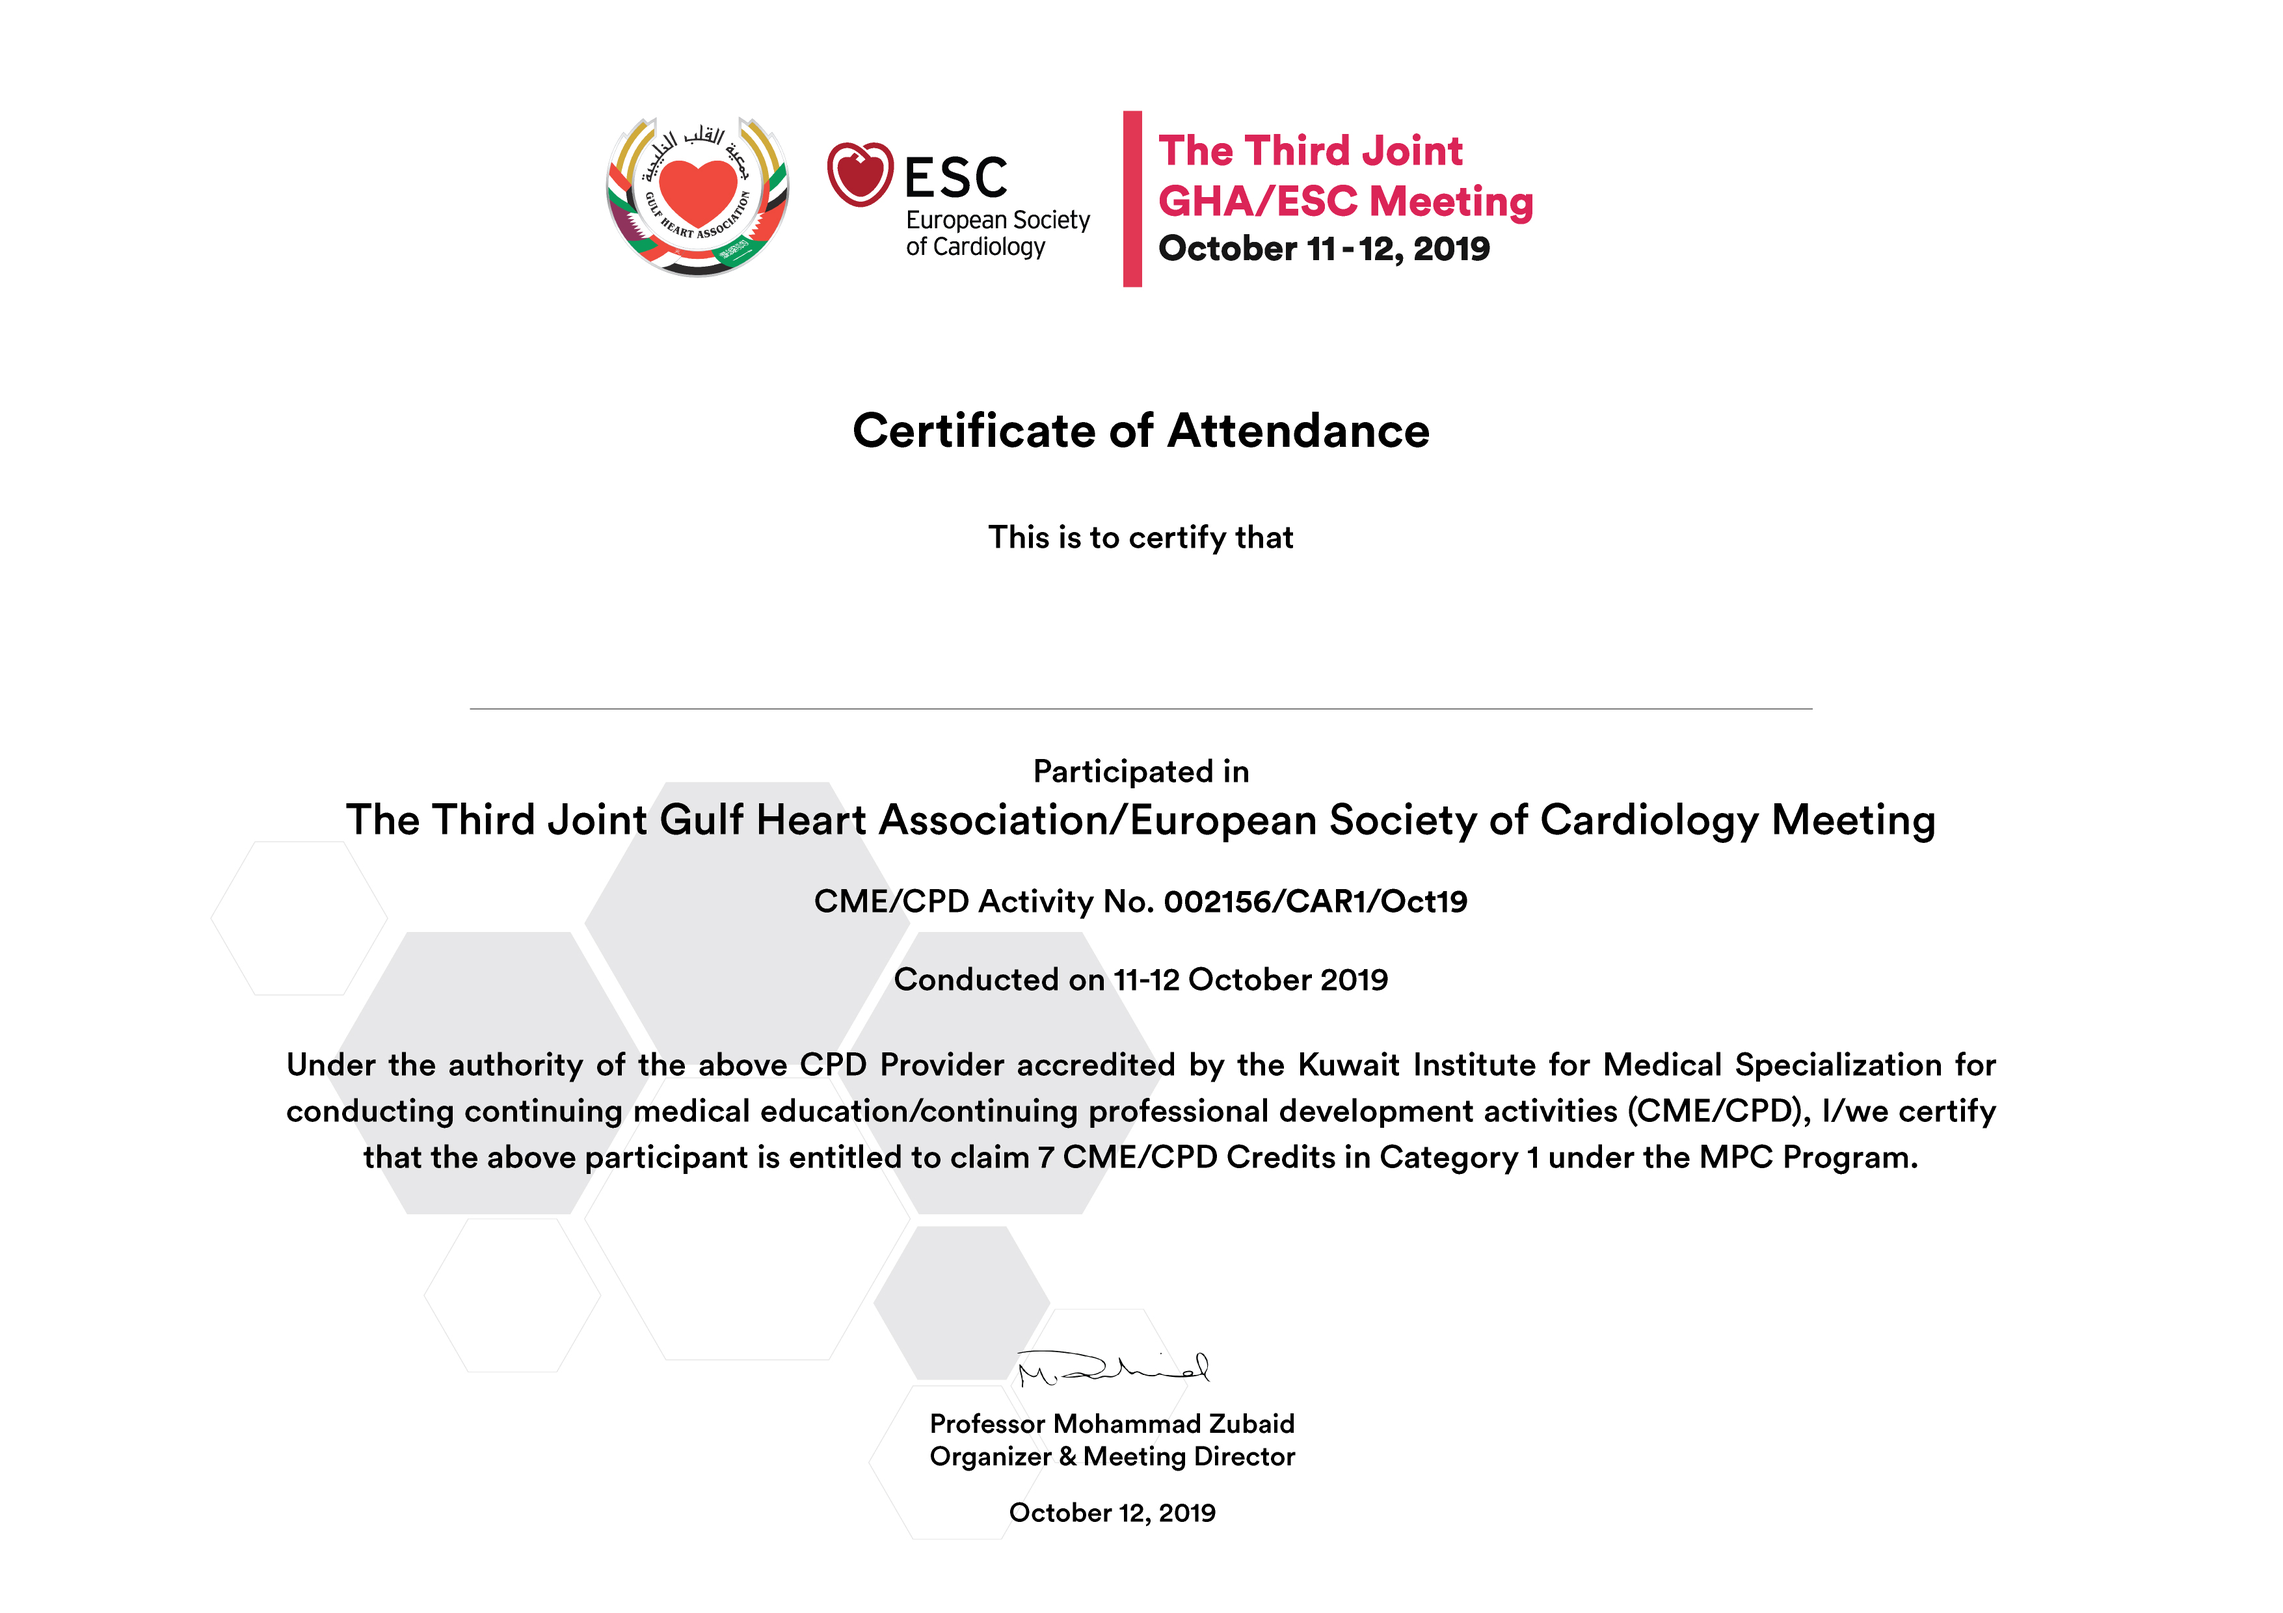
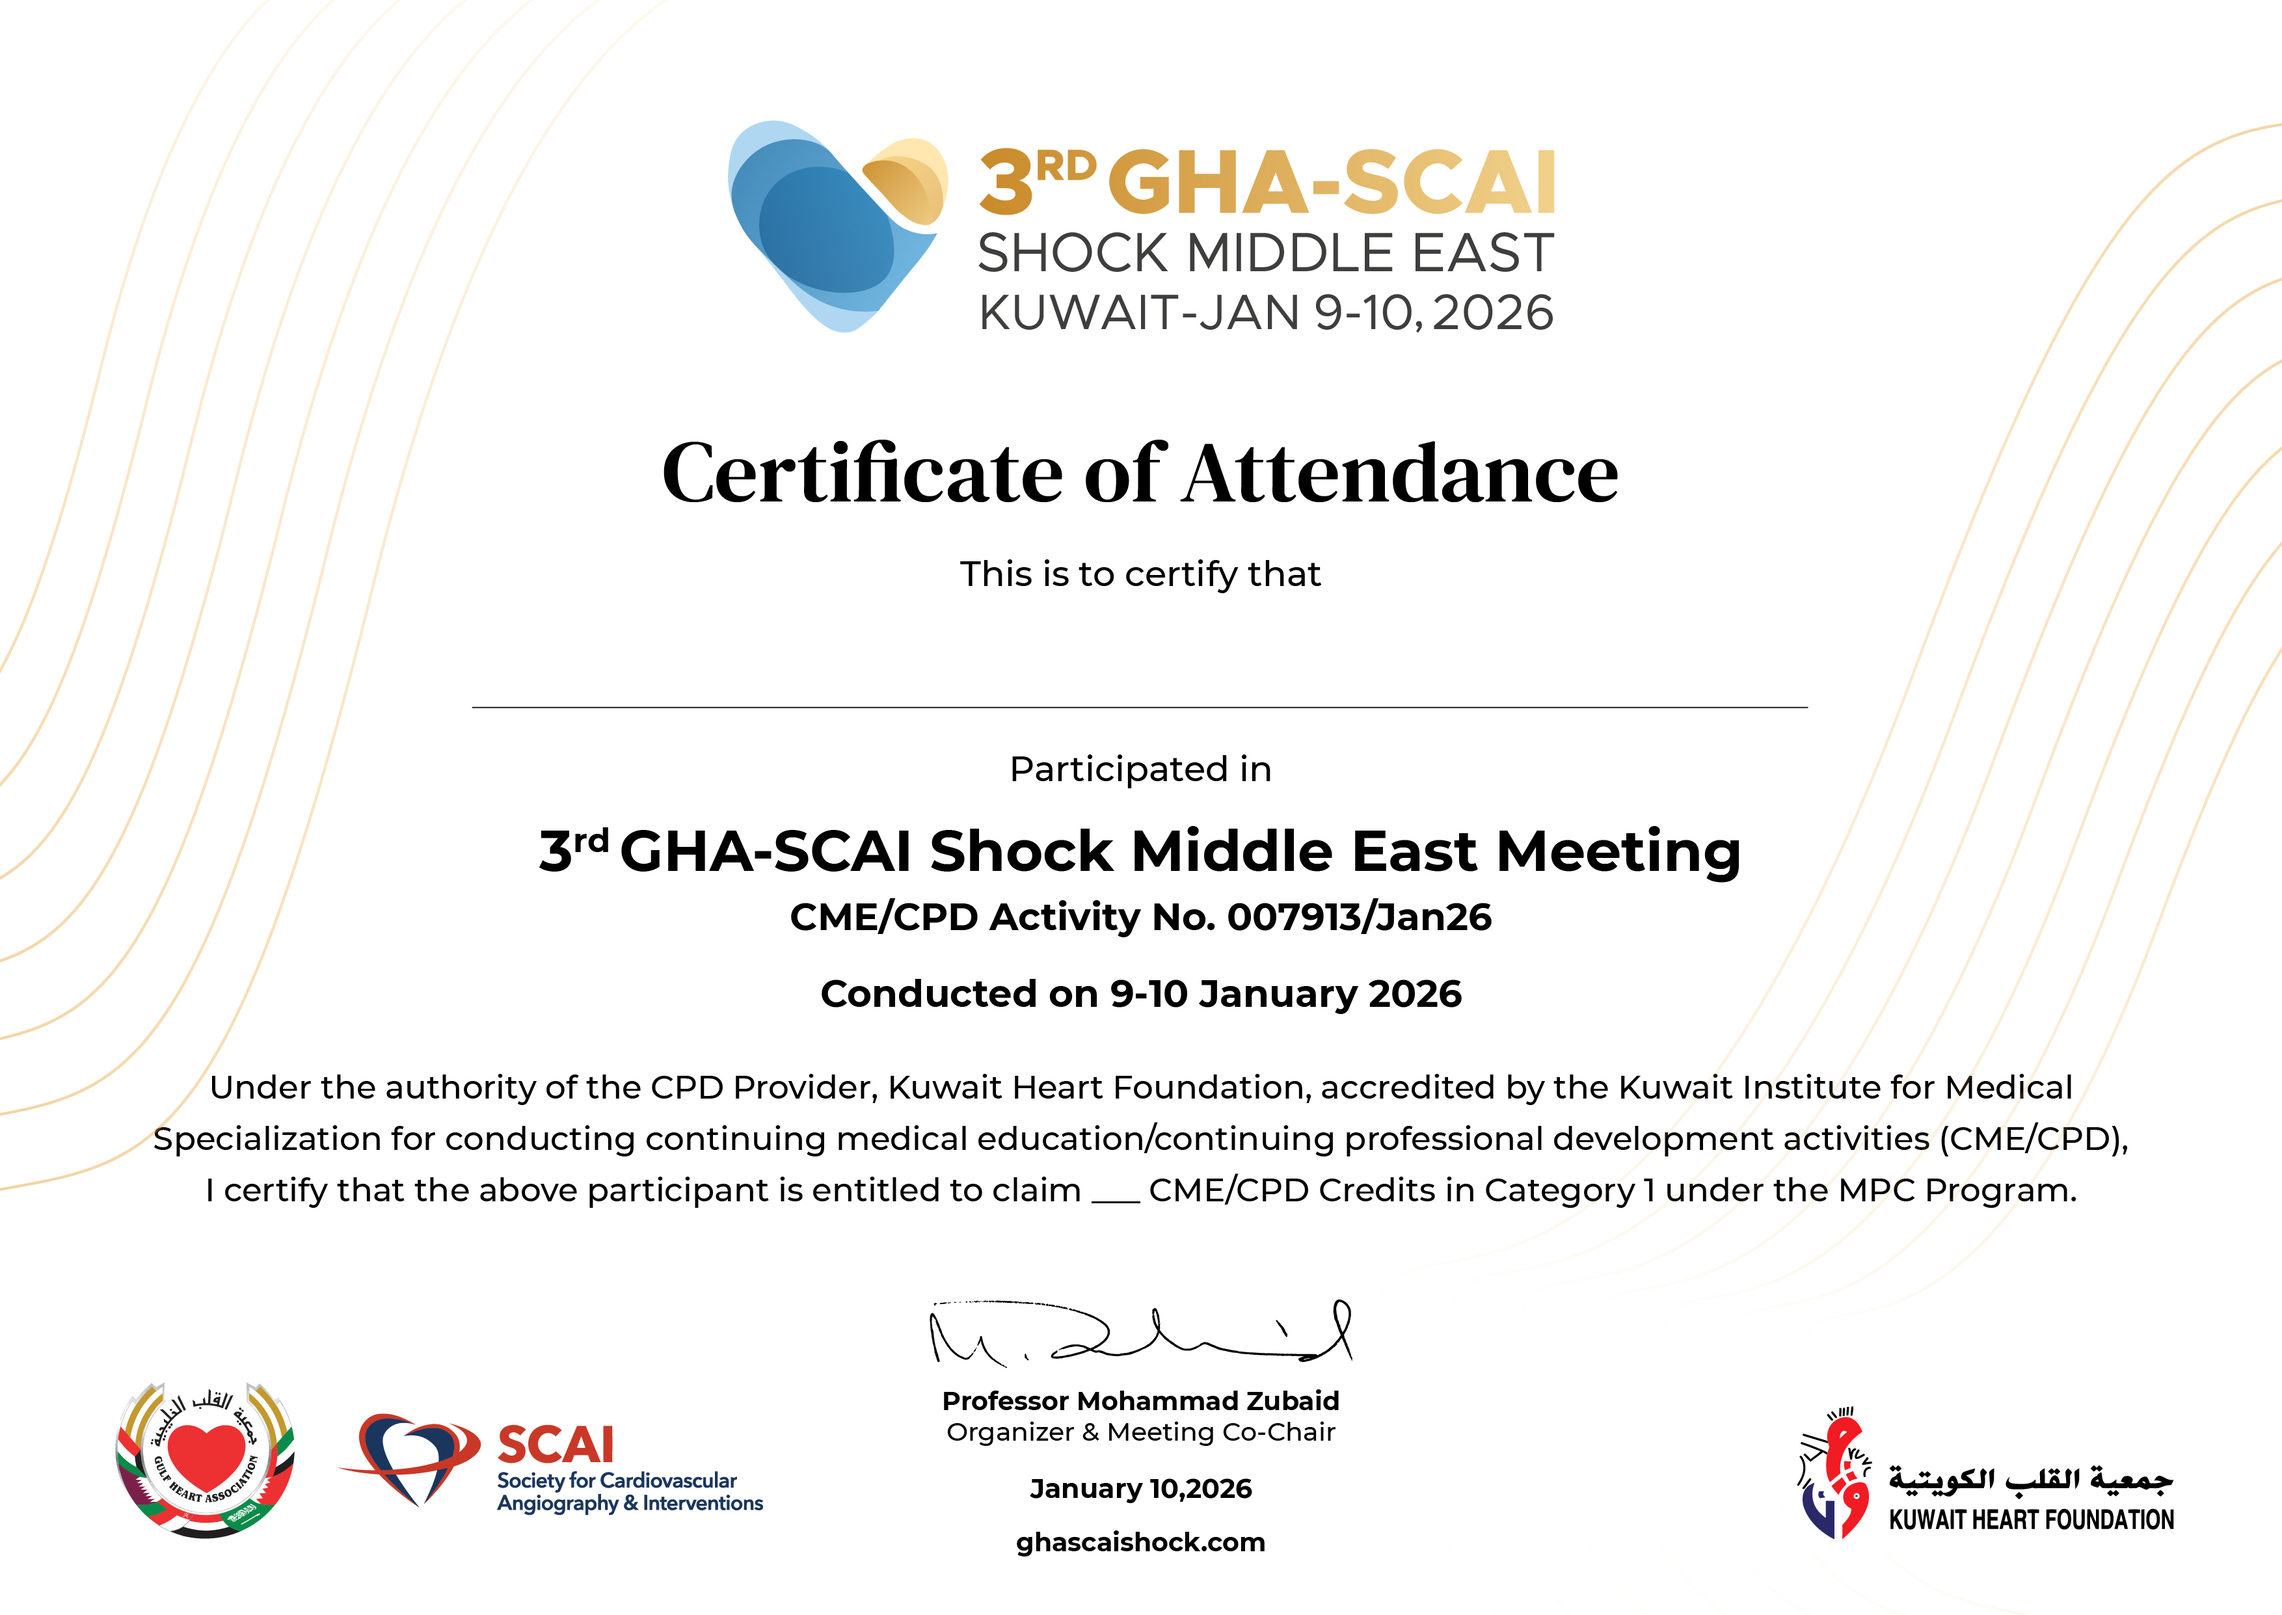
`Updated RegistrationController, register.blade.php, and routes/web.php to remove unused code and update certificate image path.`

diff --git a/app/Http/Controllers/RegistrationController.php b/app/Http/Controllers/RegistrationController.php
@@ -983,19 +983,20 @@ class RegistrationController extends Controller
 
 
         ///////////// check if user paid /////////////
-        $paid_status = $registration->Payment->paid_status;
-        if ($paid_status != 1) {
-            return redirect()->back()->withErrors(['message' => 'Your account is not active']);
-        }
+        // $paid_status = $registration->Payment->paid_status;
+        // if ($paid_status != 1) {
+        //     return redirect()->back()->withErrors(['message' => 'Your account is not active']);
+        // }
         ///////////// check if user paid /////////////
 
 
         if (!$registration->attended) {
             return redirect()->back()->withErrors(['message' => 'You have not attended the event.']);
         }
-        if (!$registration->answered) {
-            return redirect()->route('evaluation.form')->with(['registration' => $registration]);
-        }
+        // return $id;
+        // if (!$registration->answered) {
+        //     return redirect()->route('evaluation.form')->with(['registration' => $registration]);
+        // }
         return $this->downloadCertificate($registration);
     }
 
@@ -1085,7 +1086,8 @@ class RegistrationController extends Controller
         // $pdf->loadHtml("<style>html{margin:0;}</style><div style='text-align: center; margin-top: 0; position: relative;'><h3 style='position: absolute; top: 300px; left: 220px; font-weight: normal; font-size: 26px; width: 60%; font-family: Arial, sans-serif; color: #000000;'>" . ucwords($registration->title . ". " . $registration->first_name . " " . $registration->last_name) . "</h3><img src='".asset('images/certificate.jpg')."' style='width: 93%;'></div>");
         // return $pdf->download('GHAESC2019_cert_'.$registration->id.'.pdf');
 
-        $imagePath = public_path('images/GHA23Certificate_old.png');
+        $imagePath = public_path('images/certificate.jpg');
+        // $imagePath = public_path('images/GHA23Certificate_old.png');
         $imageData = file_get_contents($imagePath);
         $imageDataUri = base64_encode($imageData);
 

diff --git a/routes/web.php b/routes/web.php
@@ -276,7 +276,7 @@ Route::get('/program', ['uses' => 'GenericPageController@program', 'as' => 'page
 Route::get('/program/download/pdf', ['uses' => 'GenericPageController@downloadProgramPDF', 'as' => 'downloadProgramPDF']);
 
 Route::post('emails/create', ['uses' => 'GenericPageController@createEmail', 'as' => 'emails.create']);
-Route::get('/registration', ['uses' => 'GenericPageController@registration', 'as' => 'pages.registration']);
+// Route::get('/registration', ['uses' => 'GenericPageController@registration', 'as' => 'pages.registration']);
 Route::get('/register-now', ['uses' => 'GenericPageController@register', 'as' => 'pages.register']);
 Route::get('/register', ['uses' => 'GenericPageController@register', 'as' => 'pages.register']);
 Route::get('/venue', ['uses' => 'GenericPageController@venue', 'as' => 'pages.venue']);

diff --git a/resources/views/register.blade.php b/resources/views/register.blade.php
@@ -243,7 +243,7 @@
 
 
 
-        @if (Settings::get('certificates_enabled') && !Settings::get('registration_enabled'))
+        @if (Settings::get('certificates_enabled'))
 
           <div class="registerTopTitle" id="CertificateTopTitle">
             <div class="registerTopTitleText">Certificate</div>
